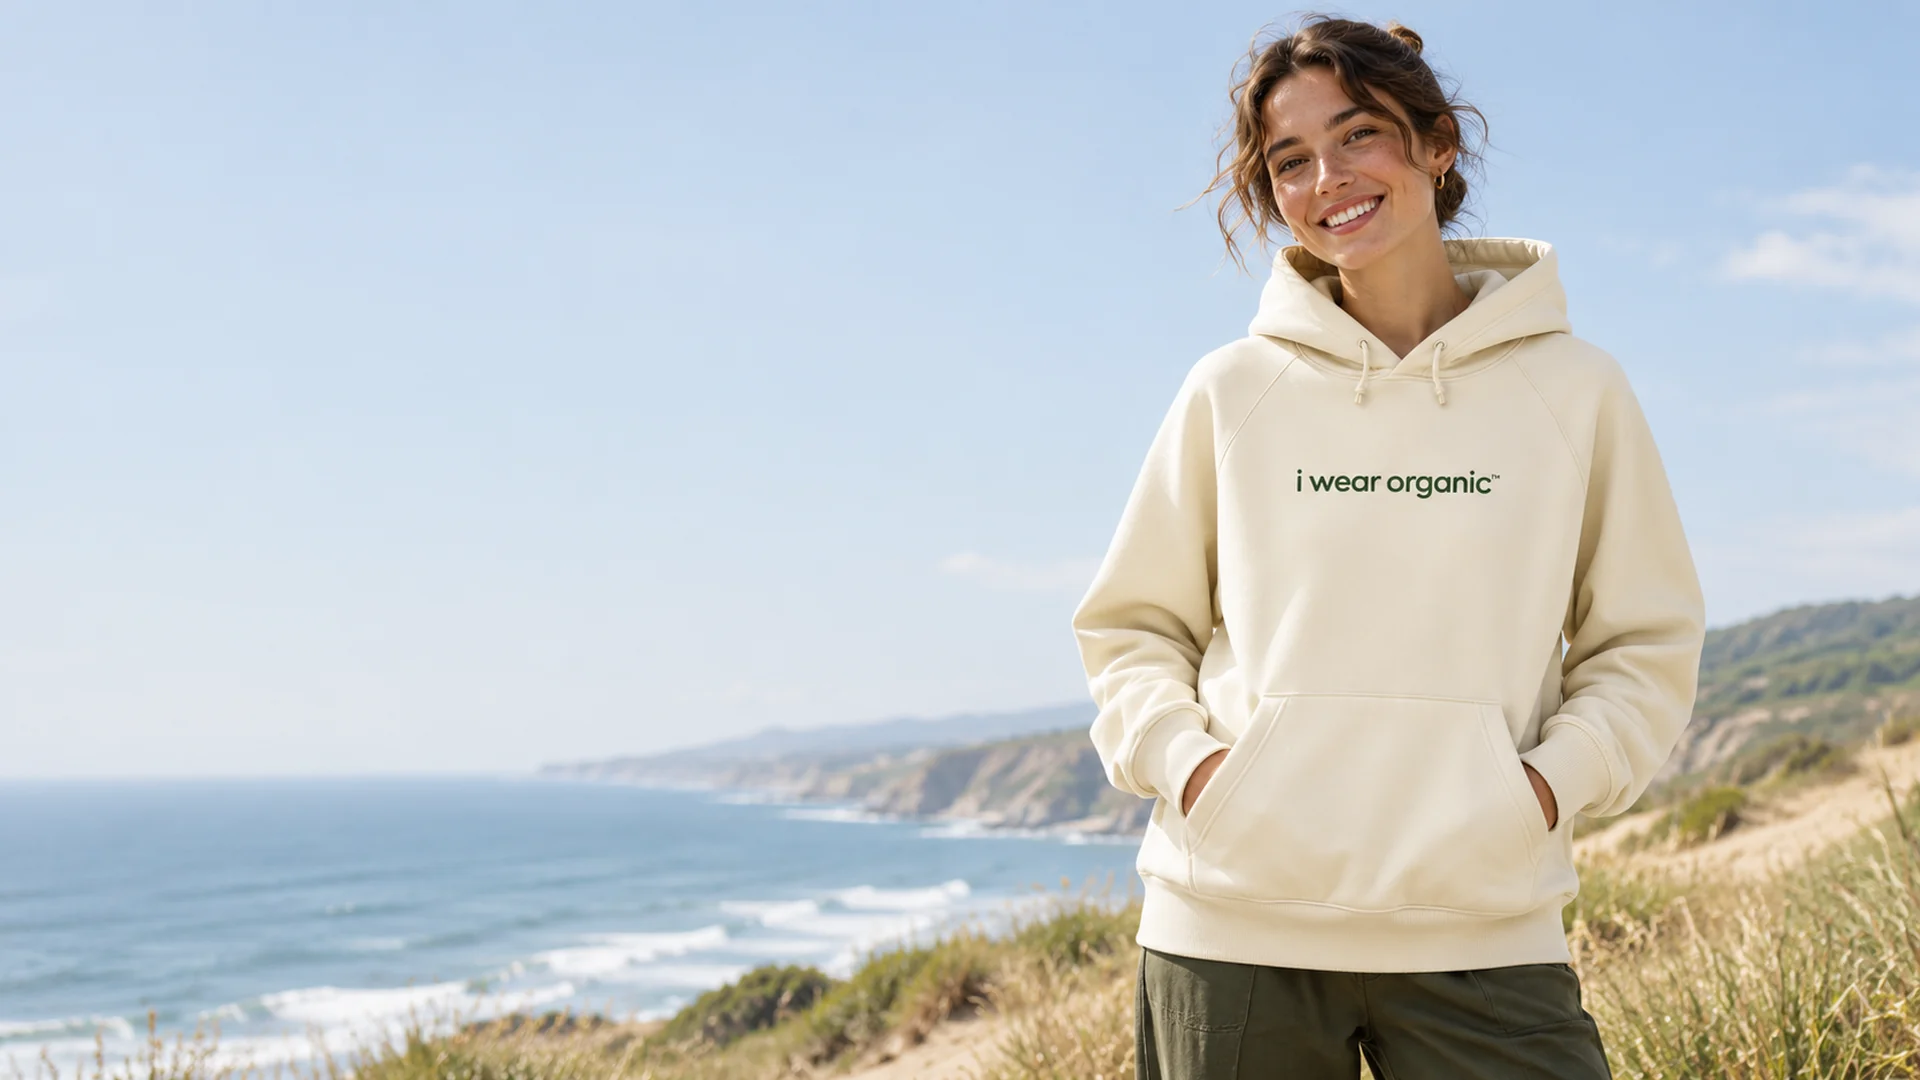
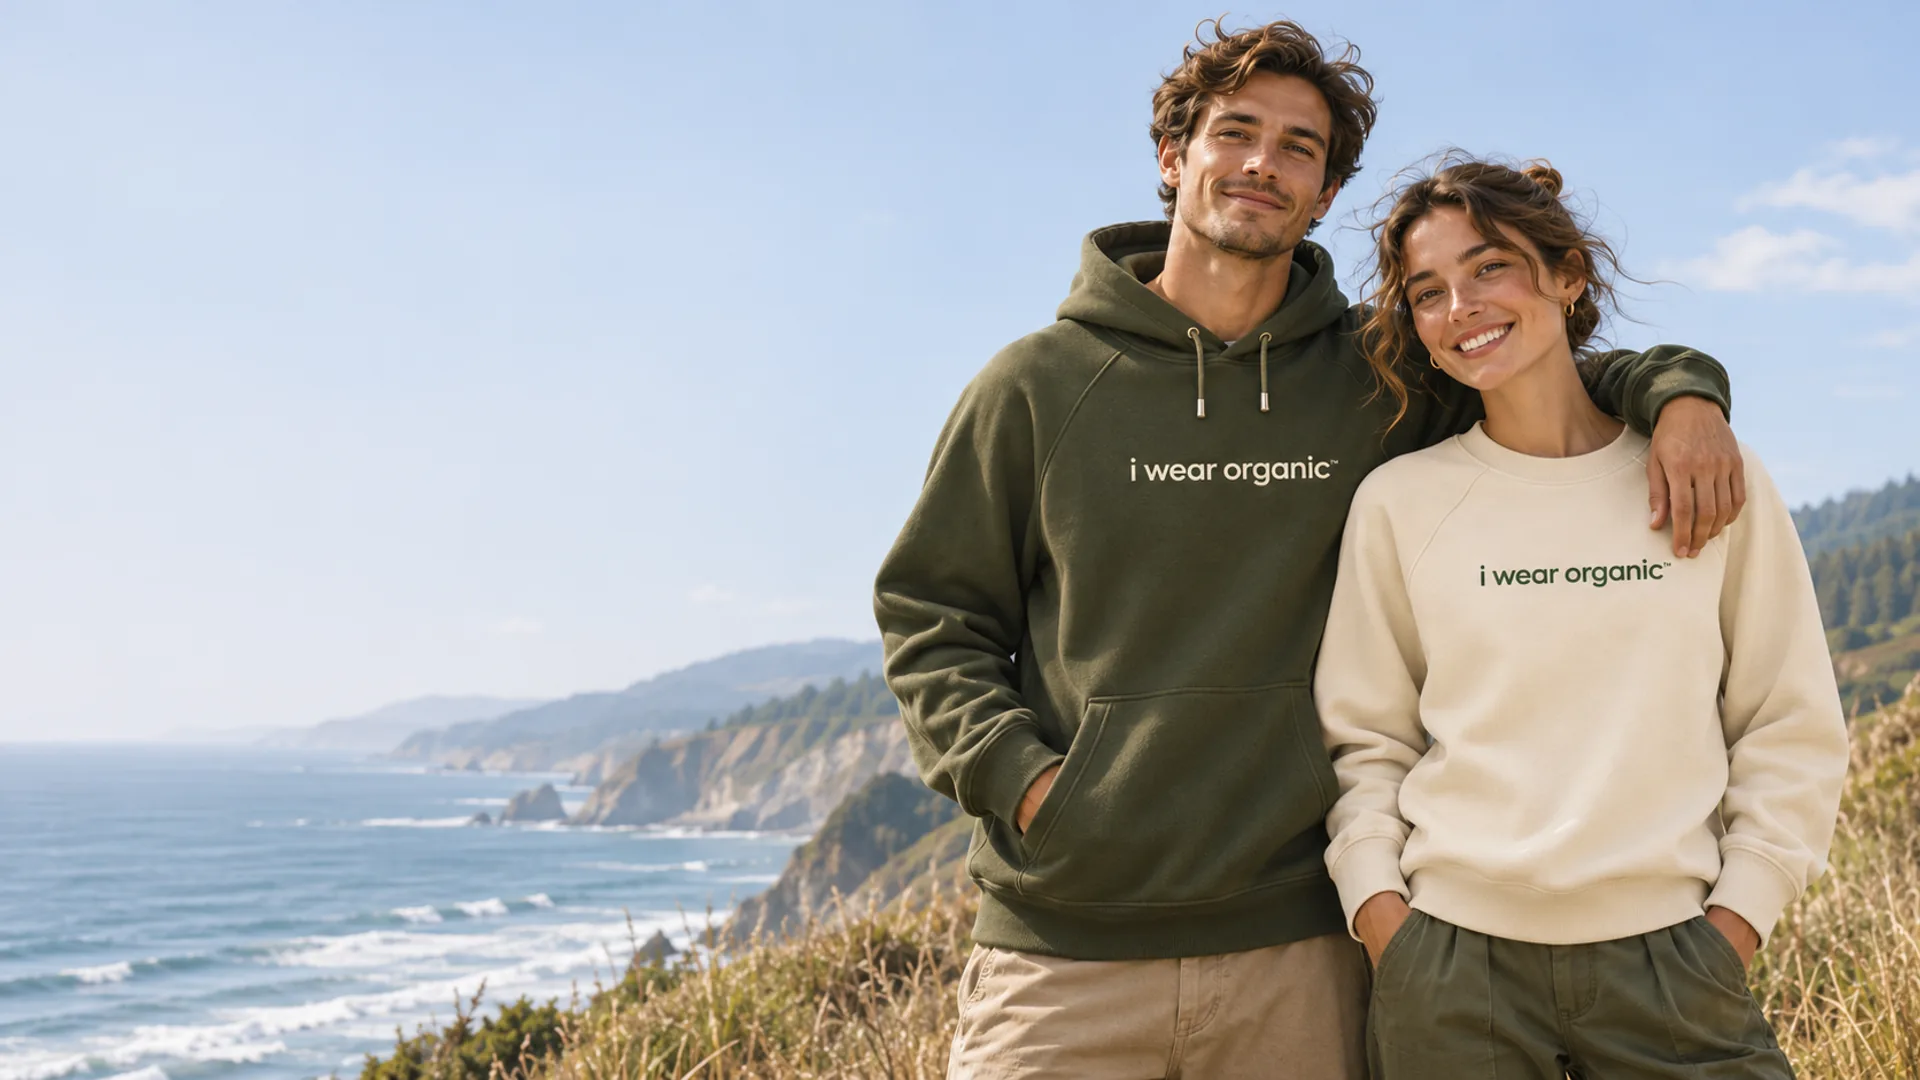
Swap home hero to olive/cream coast plates (16:9 desktop, 4:5 mobile) (#33)

diff --git a/src/components/coastal/cinematic-hero.tsx b/src/components/coastal/cinematic-hero.tsx
@@ -6,18 +6,19 @@ const HERO_MOBILE = '/editorial/heroes/home-hero-mobile.webp';
 
 /**
  * Homepage hero — brand kit §26 / §46
- * Soft Minimal coastal plates: desktop 16:9 (subject right, copy left),
- * dedicated mobile 4:5. Manrope Medium headline. Localized cotton wash only.
+ * Soft Minimal coastal plate: 16:9 (couple right, open sky + coast left for copy).
+ * Mobile uses a dedicated 4:5 (1200×1500) plate. Manrope Medium headline.
+ * Localized cotton wash only.
  */
 export function CinematicHero() {
   return (
     <section aria-label="Campaign hero" className="relative">
-      <div className="relative min-h-[78svh] overflow-hidden md:aspect-[16/9] md:min-h-0">
+      <div className="relative overflow-hidden bg-cotton md:aspect-[16/9] md:bg-transparent">
         <link
           rel="preload"
           as="image"
           href={HERO_DESKTOP_1920}
-          imageSrcSet={`${HERO_DESKTOP_1920} 1920w, ${HERO_DESKTOP} 2880w`}
+          imageSrcSet={`${HERO_DESKTOP} 1672w, ${HERO_DESKTOP_1920} 1920w`}
           imageSizes="100vw"
           media="(min-width: 768px)"
           fetchPriority="high"
@@ -30,11 +31,14 @@ export function CinematicHero() {
           fetchPriority="high"
         />
 
-        <div className="absolute inset-0" aria-hidden="true">
+        <div
+          className="relative aspect-[4/5] md:absolute md:inset-0 md:aspect-auto"
+          aria-hidden="true"
+        >
           <picture>
             <source
               media="(min-width: 768px)"
-              srcSet={`${HERO_DESKTOP_1920} 1920w, ${HERO_DESKTOP} 2880w`}
+              srcSet={`${HERO_DESKTOP} 1672w, ${HERO_DESKTOP_1920} 1920w`}
               sizes="100vw"
               type="image/webp"
             />
@@ -45,13 +49,9 @@ export function CinematicHero() {
               height={1500}
               decoding="async"
               fetchPriority="high"
-              className="absolute inset-0 h-full w-full object-cover object-[50%_38%] md:object-[78%_46%]"
+              className="absolute inset-0 h-full w-full object-cover object-center"
             />
           </picture>
-          <div
-            className="pointer-events-none absolute inset-x-0 bottom-0 h-[58%] bg-gradient-to-t from-cotton/90 via-cotton/45 to-transparent md:hidden"
-            aria-hidden="true"
-          />
           {/* Soft left wash for copy over coastal negative space */}
           <div
             className="pointer-events-none absolute inset-y-0 left-0 hidden w-[min(26rem,32%)] bg-gradient-to-r from-cotton/70 via-cotton/35 to-transparent md:block lg:w-[min(24rem,28%)]"
@@ -59,7 +59,7 @@ export function CinematicHero() {
           />
         </div>
 
-        <div className="ca-container relative z-10 flex min-h-[78svh] items-end pb-12 pt-24 md:min-h-0 md:h-full md:items-center md:pb-20 md:pt-16">
+        <div className="ca-container relative z-10 pb-12 pt-10 md:flex md:h-full md:items-center md:pb-20 md:pt-16">
           <div className="max-w-[18rem] animate-ca-fade-up motion-reduce:animate-none sm:max-w-[22rem] md:max-w-[26rem] lg:max-w-[28rem]">
             <h1 className="ca-editorial-display text-hero text-mineral-ink">
               Wear Better. Naturally.
